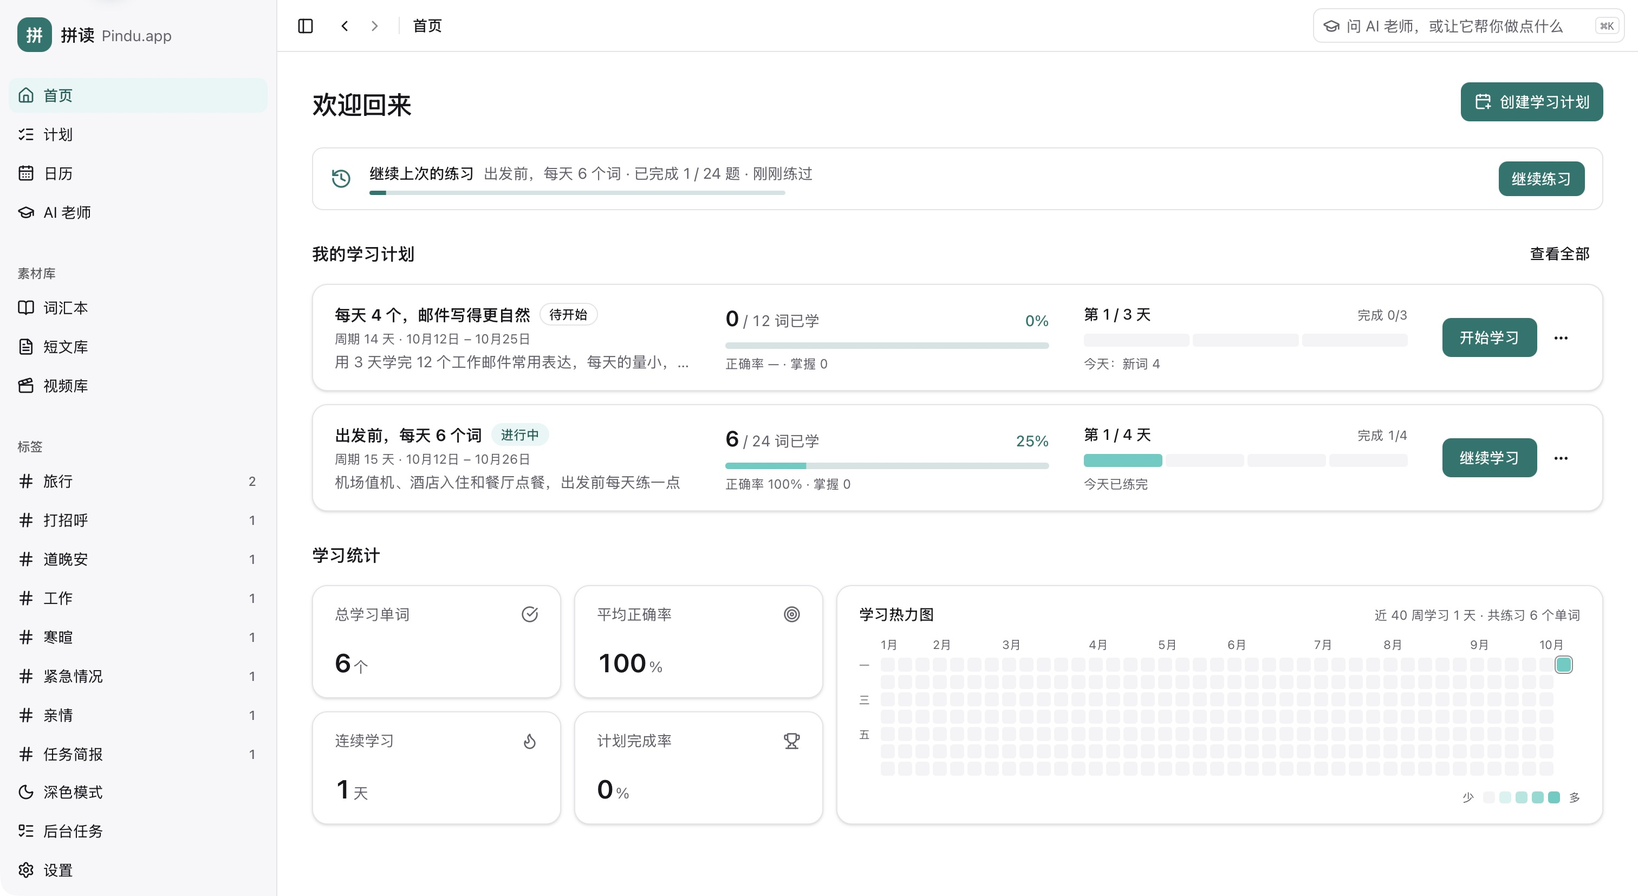
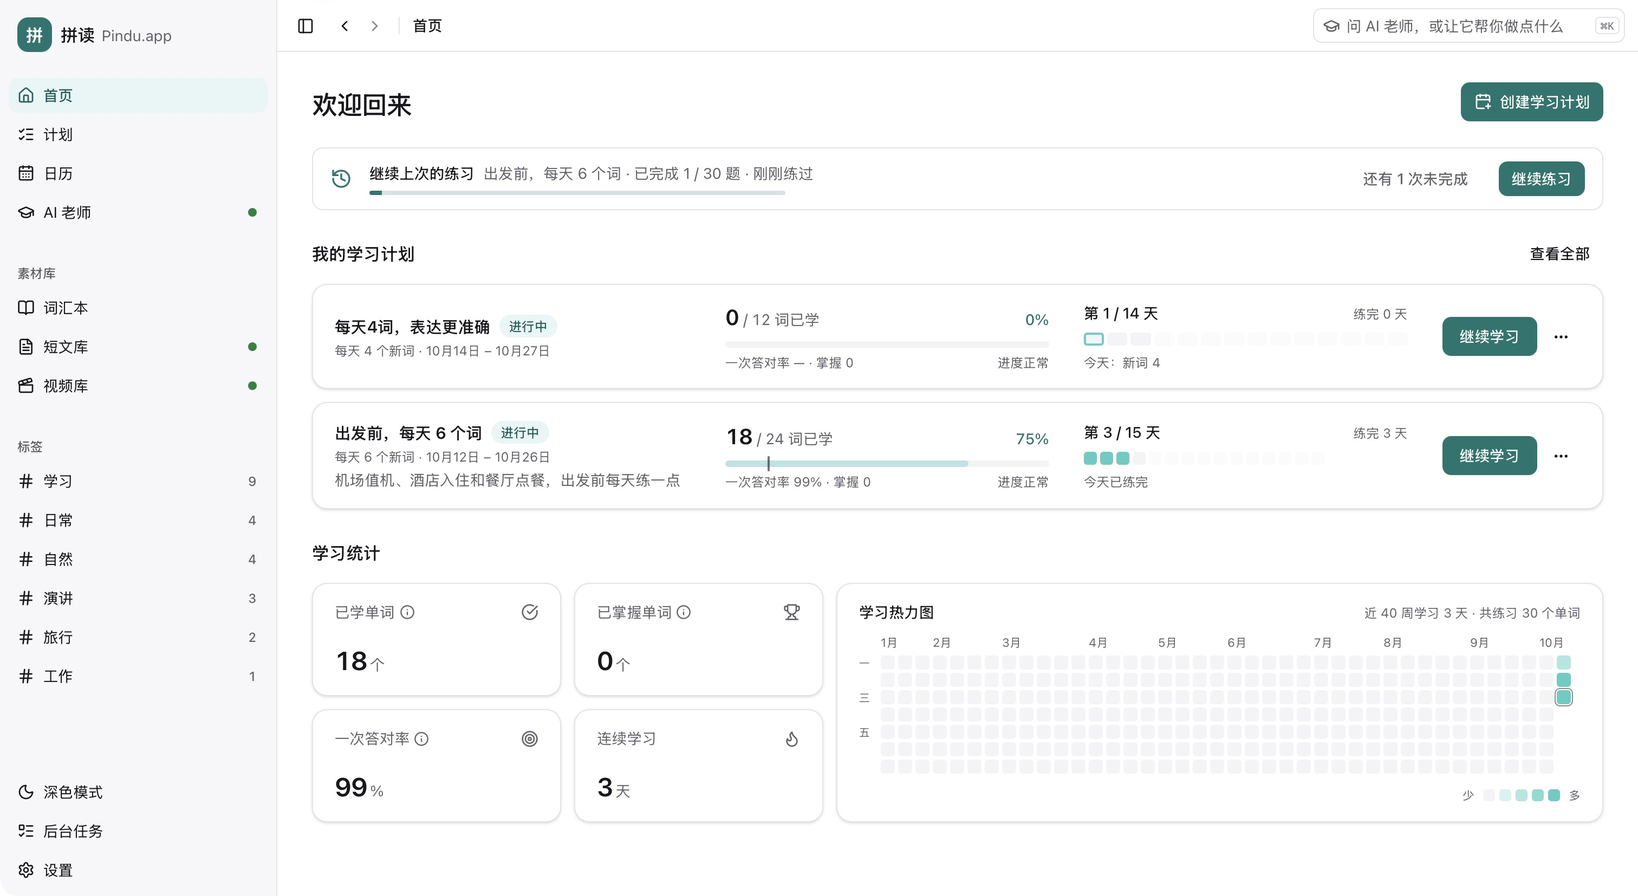
docs: 发布前更新用户文档与截图——README 中英文补上本机字幕识别、跟读评分、语音输入、场景片段三种模式与原声、学习统计、设备互传，隐私说明写明本机处理与设备互传；INSTALL 设置菜单名对齐当前分组，补本机模型与发送到另一台电脑；SECURITY 补本机语音处理、模型下载与附近的设备；重截 8 张、新增统计与设备互传 2 张截图

diff --git a/README.en.md b/README.en.md
@@ -28,7 +28,7 @@ Import text, PDFs, Word files or images. Keep the original text and existing tra
 
 ![Document import](docs/screenshots/import.png)
 
-The reader supports sentence playback, vocabulary lookup and adding selected words. Generate practice passages from vocabulary or topics, and adjust the reading voice, style and speed.
+The reader supports sentence playback and shadowing, listening with the text hidden, vocabulary recall, word lookup and adding selected words. Generate practice passages from vocabulary or topics, and adjust the reading voice, style and speed.
 
 ![Passage reader](docs/screenshots/passage.png)
 
@@ -44,11 +44,11 @@ Create separate reading and listening question sets for each passage, with cloze
 
 ### Video learning
 
-Import local videos and subtitles to create bilingual dialogue and scene-cutting plans. The clip editor supports previews, clip range adjustments and subtitle timing corrections.
+Import local videos with automatically detected external or embedded subtitles. If English subtitles are missing, speech can be transcribed on your computer. Create bilingual dialogue and scene clips, with previews, clip range adjustments and subtitle timing corrections in the editor.
 
 ![Video clip editor](docs/screenshots/editor.png)
 
-Scene clips support line-by-line study, shadowing with recording, and listen-and-spell practice using the video, dialogue, translations and vocabulary.
+Scene clips offer watching, shadowing and listening modes, with sentence-by-sentence speaking practice, pronunciation scoring, recording playback and listen-and-spell exercises. Passage playback and listening questions can use the original video audio or AI-generated speech.
 
 ![Scene clip study](docs/screenshots/clip-study.png)
 
@@ -58,15 +58,25 @@ Add vocabulary books, passages and scene clips to study plans. Set your daily wo
 
 ![Study plan](docs/screenshots/plan.png)
 
-Vocabulary practice combines speaking, spelling and recall, followed by a short quiz. Progress is saved so you can resume unfinished practice.
+Vocabulary practice combines speaking, spelling and recall, followed by a short quiz. Pronunciation feedback highlights sounds to improve, and progress is saved so you can resume unfinished practice.
 
 ![Vocabulary practice](docs/screenshots/practice.png)
 
+Learning statistics show words studied and mastered, first-attempt accuracy, study time and your learning streak. Each plan has separate results for spelling, pronunciation, reading and listening.
+
+![Learning statistics](docs/screenshots/statistics.png)
+
 ### AI tutor
 
-Get explanations of words, usage and sentences based on your materials and progress. The tutor can also create vocabulary books, passages, question sets and study plans on request. Conversations are saved for follow-up questions.
+Get explanations of words, usage and sentences based on your materials and progress. The tutor can also create vocabulary books, passages, question sets and study plans on request. Search or pin conversations, continue asking questions, or start a new conversation from one of your earlier messages. Voice input is supported.
 
 ![AI tutor creates study materials and plans](docs/screenshots/tutor-materials.png)
+
+### Transfer between computers
+
+Pair computers on the same network to send vocabulary books, passages, videos, scene clips and study plans. Plans can include learning progress so you can continue studying on another computer.
+
+![Send a study plan with learning progress](docs/screenshots/devices.png)
 
 ## Usage costs
 
@@ -76,6 +86,8 @@ Get explanations of words, usage and sentences based on your materials and progr
 - **Speech**: text-to-speech uses the service you configure, with fees charged by that provider under its own terms.
 
 Your costs depend on the model, speech service and usage, as shown in the provider's pricing and billing. Pindu does not collect these fees or include AI or speech credits. Manual vocabulary management, practice and statistics work without configuring these services.
+
+Local subtitle transcription, pronunciation scoring and voice input do not require a paid online speech service. Original video audio also works without a text-to-speech service.
 
 ## Installation
 
@@ -97,12 +109,15 @@ After installation, configure these services in Settings:
 
 Without them, you can still manage vocabulary books by hand, practise and view statistics.
 
+Subtitle transcription, pronunciation scoring and voice input require local models, which you can manage in Settings → Local models.
+
 ## Privacy
 
 - Your learning materials and records, including AI tutor conversations, are stored on your computer. There is no usage tracking.
-- The app connects to the network in two cases only:
-  - When you use AI or speech features, the relevant content is sent directly to the provider you configured.
-  - When it checks GitHub for updates. You can turn this off in Settings.
+- When you use AI or text-to-speech, the relevant content is sent directly to the provider you configured.
+- Subtitle transcription, pronunciation scoring and voice input run locally. Video audio and recordings are not sent to those providers.
+- Local model downloads and update checks require a network connection. You can turn off automatic update checks in Settings.
+- Transfers take place on the same local network. Materials and any learning progress you choose to include are sent only to the selected paired computer.
 - Service keys (API keys) are stored on your computer without encryption and are never written to logs.
 
 See [SECURITY.md](./SECURITY.md) for details.

diff --git a/docs/screenshots/README.md b/docs/screenshots/README.md
@@ -2,6 +2,47 @@
 
 本目录供文档与宣传素材维护人员使用。产品介绍见[中文 README](../../README.md)与[英文 README](../../README.en.md)。
 
+## 2026-10-14 更新
+
+更新首页、文档导入、短文阅读、视频剪辑、场景片段学习、计划、词汇练习与 AI 老师共 8 张截图，新增学习统计和设备互传 2 张。中英文产品 README 使用相同的 13 张图片，保持简短功能介绍与单张配图交替；配置步骤与数据去向分别更新在 INSTALL 和 SECURITY 中。
+
+新截图通过 Computer Use 在正式构建的 A8 应用中拍摄，产品源码对应 `34adba516d46a746521a60ae198fb2071cbf7520`。使用已有回归数据的独立副本，名称调整、材料导入、老师对话、视频切分与练习均通过应用界面完成。没有插入学习记录或修改系统日期。
+
+### 本轮资料与记录
+
+- **词汇与计划**：保留「出国旅行随身词汇」24 词及已有 3 天练习记录，18 词已学、一次答对率 99%、计划进度 75%。首页的 1/30 来自本轮实际完成一道拼写题后退出的重练。「人物特点与表达」包含 12 个形容词，老师实际创建「每天4词，表达更准确」计划；词汇练习图展示 careful 的看词、跟读入口和 6 条例句。
+- **文档与短文**：再次通过 PDF 导入原创 The Last Hour Before Departure，保留 9 句译文与 6 个词组，并生成阅读、听力各 3 题。阅读图采用老师实际生成的 A Reliable Teammate：83 词、8 句、3 个重点词，另有 3 道阅读选择题。导入图展示确认前的预览，不代表重复保存了第二篇。
+- **视频**：重新导入本地《速度与激情 9》的 `00:06:18–00:09:22` 截段及英文字幕，完成译文和 3 段实际切分：An Old Friend Arrives、Mayday Briefing、Bedtime with Little B。片段学习图处于观看模式，展示赠礼台词、译文及观看／跟读／听力入口。编辑器中的 12 条字幕在学习页合并为 10 句。
+- **统计**：采用旅行计划已有的拼写与发音记录，其中一次跟读为 84 分。统计图拍摄在本轮重练之前，练习时长与之后拍摄的计划图有所不同。
+- **老师**：新对话中实际创建计划、短文与题组，展示搜索结果、新对话入口、重新问及资料入口；未替换回答或拼接消息。
+- **设备互传**：在同一台 Mac 上启动两个独立数据目录的应用实例，命名为「工作电脑」和「家用电脑」，实际发现、核对数字配对、发送旅行计划及学习进度、确认接收。公开截图来自最新 A8 发送端；接收端复用 A7 正式构建，两者的设备互传代码一致。这组证据不代表两台物理电脑或跨系统测试。
+
+### 当前产品介绍配图
+
+| 文件 | 展示内容 | 拍摄日期 |
+| --- | --- | --- |
+| `home.png` | 两个计划、已学与已掌握统计、一次答对率、热力图与继续练习 | 10月14日 |
+| `wordbook.png` | 24 词旅行词汇本及 boarding pass 的单词卡 | 10月12日，沿用 |
+| `import.png` | 双语 PDF 的原文、译文、重点词组与导入预览 | 10月14日 |
+| `passage.png` | A Reliable Teammate 完整原文、重点词与阅读工具栏 | 10月14日 |
+| `sentence.png` | 机场短文第二句的句式、成分与过去完成时讲解 | 10月12日，沿用 |
+| `listening.png` | 独立听力题组、慢速播放、按句重听与填空作答 | 10月12日，沿用 |
+| `editor.png` | 三段切分结果、原片预览、双语字幕与时间轴 | 10月14日 |
+| `clip-study.png` | Bedtime with Little B 的赠礼台词与三种学习模式 | 10月14日 |
+| `plan.png` | 旅行计划 75% 进度、前三天练习与后续日程 | 10月14日 |
+| `practice.png` | careful 的看词、跟读入口、拼读与例句 | 10月14日 |
+| `statistics.png` | 拼写一次答对率、词性构成、发音表现与练习记录 | 10月14日，新增 |
+| `tutor-materials.png` | 对话搜索、新对话入口及实际创建计划、短文的回答 | 10月14日 |
+| `devices.png` | 向已配对的在线设备发送计划，并勾选学习进度 | 10月14日，新增 |
+
+`clips.png`、`create-plan.png`、`tutor.png` 和 `jobs.png` 仍保留为 10月12日的维护素材，不在产品 README 展示。
+
+### 原图与复拍
+
+本轮原始 JPEG、同帧界面文本、独立运行数据与导出清单保留在 `.claude/work/docs-refresh-20261012/`，不加入仓库。使用 `export-screenshots-20261014.py` 按清单导出 PNG，仅裁掉顶部 64 像素系统标题栏，不缩放、不重画或修饰内容。台词列表的模糊来自应用的「聚焦当前句」。复拍时使用这一轮清单，避免旧导出脚本覆盖新图。
+
+未替换的三张产品配图来自上一轮真实操作，保留其原始数据与日期说明。电影及原字幕文件不在仓库中，画面版权归相应权利人所有，不适用仓库的 MIT 许可证。运行目录含服务配置，不应提交或分享。
+
 ## 2026-10-12 更新
 
 替换原有 9 张截图，新增 6 张：文档导入、独立听力练习、电影台词学习、创建计划、老师整理资料与后台任务。原有图片路径保持不变。

diff --git a/INSTALL.md b/INSTALL.md
@@ -39,8 +39,10 @@
 | 手动管理词汇本、按计划练习、日历与统计 | 无需配置，也无需联网 |
 | 拼读分析、例句、AI 老师、短文生成、材料导入、视频规划等 | 需要大模型 API Key |
 | 单词与句子朗读 | 需要语音合成服务 |
+| 视频原声播放 | 无需语音合成服务 |
+| 字幕识别、跟读评分与语音输入 | 需要相应的本机模型，准备好后在本机处理 |
 
-### AI 模型（设置 → AI 模型）
+### AI 模型（设置 → AI 服务）
 
 1. 选择提供商。内置 OpenRouter、MiniMax、月之暗面（Kimi）和 DeepSeek，也可以从目录中添加其他提供商，或填写任意 OpenAI 兼容接口的地址。
 2. 填写该提供商的 API Key，点击「选择模型…」，勾选要添加的模型。
@@ -49,15 +51,23 @@
 5. 可选：在「设置 → 学习者」中选择学习者档案（小学生、中学生、成人）。
 6. 可选：在「设置 → AI 老师」中设定老师的名字、说话风格，以及在对话里改动你的内容前是否先问你。
 
-### 语音合成（设置 → 语音合成）
+### 语音合成（设置 → 语音服务）
 
 朗读使用[火山引擎豆包语音合成](https://www.volcengine.com/product/tts)。
 
 1. 在火山引擎控制台开通服务。
 2. 在「豆包语音连接」中填写 API Key（或 AppID 与 Access Token）。
-3. 在页面上选择音色与朗读风格，并调整语速、音调和音量。各项均可直接试听。
+3. 在「设置 → 朗读与发音」中选择音色与朗读风格，并调整语速、音调和音量。各项均可直接试听。
 
 已生成的朗读音频保存在本机，相同内容再次朗读时可使用已有音频。
+
+### 本机模型（设置 → 本机模型）
+
+- **字幕识别**：用于没有英文字幕的视频；语音输入也需要识别模型。
+- **发音评估**：用于单词和句子的跟读评分。在「朗读与发音」中开启跟读评估，并设置评分要求。
+- 按需要下载相应模型，也可从文件导入字幕识别模型。模型准备好后，识别与评分在本机进行，录音不上传。
+
+导入视频时会自动查找配套或内嵌字幕。没有找到英文字幕时，可以选择识别英文语音，或使用自己的字幕文件。场景片段的原文朗读和听力题默认使用视频原声，也可切换为 AI 朗读。
 
 ### 首次使用：导入与练习
 
@@ -67,6 +77,13 @@
 4. **创建学习计划**：将词汇加入词汇本，在「创建学习计划」中选择材料、每日新词数和学习顺序。也可以通过 AI 老师创建词汇本并安排每日学习。
 
 老师的对话会保存，可以置顶或归档。导入、分析和出题时可以离开页面，「后台任务」会保留处理进度和结果入口。完整界面示例见[功能介绍](./README.md#功能)。
+
+### 发送到另一台电脑
+
+1. 在同一网络的两台电脑上打开拼读，进入「设置 → 附近的设备」，开启设备发现。
+2. 选择对方电脑配对，两边核对屏幕上的 6 位数字后确认。
+3. 在词汇本、短文、视频、场景片段或计划的更多菜单中选择「发送到其他电脑」。发送计划时，可勾选「连同学习进度」。
+4. 对方确认接收后会获得一份新的资料，已有内容不受影响。计划用到的词汇本、短文和场景片段会一起发送。
 
 ## 3. 升级
 
@@ -113,7 +130,7 @@
 
 ### 清理朗读音频
 
-在「设置 → 语音合成」中清理语音缓存。清理后再次朗读会重新生成音频，并消耗语音合成服务的额度。
+在「设置 → 语音服务」中清理语音缓存。清理后再次朗读会重新生成音频，并消耗语音合成服务的额度。
 
 ## 5. 常见问题
 
@@ -123,7 +140,7 @@
 
 **AI 功能报错或长时间无结果**
 
-1. 在「设置 → AI 模型」中点击所用模型旁的测试按钮，确认 API Key 有效、账户余额充足。
+1. 在「设置 → AI 服务」中点击所用模型旁的测试按钮，确认 API Key 有效、账户余额充足。
 2. 遇到限流（HTTP 429）时，在「设置 → AI 任务」的「批量分析单词」中调小「每批单词数」和「同时请求数」，也可以在「AI 请求」中调小「后台同时进行」的任务数、调大「出错时自动重试」次数。
 3. 查看「设置 → 通用 → 诊断」中的系统日志，获取详细错误。
 

diff --git a/README.md b/README.md
@@ -26,7 +26,7 @@
 
 ![文档导入](docs/screenshots/import.png)
 
-阅读页支持逐句朗读、重点词汇查看和选词收录。也可围绕词汇或主题生成练习短文；朗读音色、风格与语速可调。
+阅读页支持逐句朗读与跟读、盲听、听后回忆、重点词汇查看和选词收录。也可围绕词汇或主题生成练习短文；朗读音色、风格与语速可调。
 
 ![短文阅读](docs/screenshots/passage.png)
 
@@ -42,11 +42,11 @@
 
 ### 视频学习
 
-导入本地视频与字幕，生成双语台词和场景切分方案。剪辑编辑器支持预览、调整片段范围与校正字幕时间。
+导入本地视频时自动查找配套或内嵌字幕；没有英文字幕时，可在本机识别语音。视频可整理成双语台词和场景片段，剪辑编辑器支持预览、调整片段范围与校正字幕时间。
 
 ![视频剪辑编辑器](docs/screenshots/editor.png)
 
-场景片段支持逐句学习、跟读录音和听句拼写，结合画面、台词、译文与词汇进行练习。
+场景片段提供观看、跟读和听力三种模式，支持逐句跟读、发音评分、录音回放和听句拼写。原文朗读与听力题可选择视频原声或 AI 朗读。
 
 ![场景片段学习](docs/screenshots/clip-study.png)
 
@@ -56,15 +56,25 @@
 
 ![学习计划](docs/screenshots/plan.png)
 
-词汇练习结合跟读、拼写与回忆，通过当轮小测检验学习情况。练习进度自动保存，可以接着练。
+词汇练习结合跟读、拼写与回忆，通过当轮小测检验学习情况。跟读评分标出需要改善的发音，练习进度自动保存，可以接着练。
 
 ![词汇练习](docs/screenshots/practice.png)
 
+学习统计展示已学与已掌握的词汇、一次答对率、学习时长和连续学习天数；计划中可分别查看拼写、发音、阅读与听力表现。
+
+![学习统计](docs/screenshots/statistics.png)
+
 ### AI 老师
 
-支持单词、用法和句子讲解，可结合学习资料与进度回答问题，也能按要求创建词汇本、短文、题组和学习计划。对话会保存，可以继续追问。
+支持单词、用法和句子讲解，可结合学习资料与进度回答问题，也能按要求创建词汇本、短文、题组和学习计划。可搜索、置顶对话，继续追问，或从自己发过的消息重新问。支持语音输入。
 
 ![AI 老师创建学习资料与计划](docs/screenshots/tutor-materials.png)
+
+### 设备互传
+
+同一网络中的电脑配对后，可互传词汇本、短文、视频、场景片段与学习计划。计划可连同学习进度一起发送，在另一台电脑接着学。
+
+![发送学习计划与进度](docs/screenshots/devices.png)
 
 ## 使用费用
 
@@ -74,6 +84,8 @@
 - **语音朗读**：使用你配置的语音合成服务，相关费用由该服务商按其规则收取。
 
 实际成本取决于所选模型、语音服务和使用量，以服务商的定价与账单为准。拼读不代收这些费用，也不附带 AI 或语音服务额度。仅使用手动词汇管理、练习和统计时，无需配置这些服务。
+
+本机字幕识别、跟读评分和语音输入无需购买在线语音服务；播放视频原声也无需配置语音合成服务。
 
 ## 安装
 
@@ -95,12 +107,15 @@
 
 未配置时，手动管理词汇本、练习和统计功能仍可使用。
 
+字幕识别、跟读评分与语音输入需要相应的本机模型，可在「设置 → 本机模型」中管理。
+
 ## 隐私
 
 - 学习资料与记录（包括与 AI 老师的对话）保存在本机，不收集使用数据。
-- 只有两种情况会联网：
-  - 使用 AI 或语音功能时，相关内容直接发送给用户配置的服务商；
-  - 检查更新时访问 GitHub，可以在设置中关闭。
+- 使用 AI 或语音合成时，相关内容直接发送给用户配置的服务商。
+- 字幕识别、跟读评分与语音输入在本机处理，视频声音与录音不发送给上述服务商。
+- 下载本机模型与检查更新需要联网；自动检查更新可以在设置中关闭。
+- 设备互传在同一网络内进行，仅向配对后选定的电脑发送资料及选择携带的学习进度。
 - 服务密钥（API Key）未加密保存在本机，不会写入日志。
 
 详见 [SECURITY.md](./SECURITY.md)。

diff --git a/SECURITY.md b/SECURITY.md
@@ -21,7 +21,7 @@
 | 导入的视频与切分出的场景片段 | 文件保存在本机；视频画面与声音不发送给 AI 服务 |
 | 与 AI 老师的对话及发给老师的文件 | 保存在本机，删除对话时一并删除；对话时会发送给大模型，见下表 |
 | AI 与语音服务密钥（API Key） | **未加密**保存在本机；调用对应服务商时作为凭证发送，不写入日志 |
-| 已生成的朗读音频 | 保存在本机，可在「设置 → 语音合成」中清理 |
+| 已生成的朗读音频 | 保存在本机，可在「设置 → 语音服务」中清理 |
 | 问题排查日志 | 保存在本机，不自动上传，不记录服务密钥 |
 
 ### 发送给服务商的内容
@@ -35,6 +35,18 @@
 | 语音合成 | 待朗读的单词或句子，以及所选的朗读风格 |
 
 上述内容按对应服务商的隐私政策处理。如材料较为敏感，请选择可信的服务商，或使用自建的 OpenAI 兼容接口。
+
+### 本机语音处理与模型下载
+
+字幕识别、跟读评分和语音输入在本机运行。视频声音和录音不发送给大模型或语音合成服务。使用语音输入后，转成的文字会按所在功能处理；例如，对 AI 老师说的话转成文字后，会作为对话内容发送给配置的大模型。
+
+相应模型需要按需下载。下载会连接所选的模型来源，不发送学习资料或录音；模型可在「设置 → 本机模型」中管理，字幕识别模型也可从文件导入。
+
+### 附近的设备
+
+设备互传默认关闭。开启后，应用会在同一网络中发现其他拼读设备，并显示本机设置的名称和连接地址。首次配对需要两边核对 6 位数字并确认，可在「设置 → 附近的设备」中取消配对。
+
+发送时只向选定的已配对电脑传送资料，对方确认后才开始。计划可选择携带学习进度；服务密钥、AI 老师的对话、设置和本机模型不会随资料一起发送。接收的内容保存为一份新的，不覆盖已有资料。
 
 ### 检查更新
 

diff --git a/docs/product/value-proposition.md b/docs/product/value-proposition.md
@@ -61,7 +61,7 @@
 
 自然拼读、讲解、素材生成、本地保存和无需账号是支撑能力或使用特点。AI 承担部分整理、补充和讲解工作，通用产品介绍优先表达用户获得的价值。按主题或词汇生成补充材料可以服务用户的目标，不要求所有资源都来自导入。
 
-使用边界需准确：目前通过用户提供文本、受支持的文档文件、本地视频与字幕导入；不承诺任意网页链接自动采集、扫描件识别或没有字幕也能直接完成视频学习。资料保存在本机；使用 AI 或语音时，相关内容会发送到用户配置的服务商，具体条件见 README 的安装与隐私章节。
+使用边界需准确：目前通过用户提供文本、受支持的文档与图片、本地视频与字幕导入；图片及扫描的 PDF 需要支持图像的大模型，没有英文字幕的视频可用本机模型识别语音。不承诺任意网页链接自动采集。资料保存在本机；使用 AI 或语音合成时，相关内容会发送到用户配置的服务商；字幕识别、跟读评分与语音输入在本机处理。已配对设备可在同一网络中互传资料和选定的学习进度。具体条件见 README 的安装与隐私章节。
 
 ## 用这个定位决定产品优先级
 
